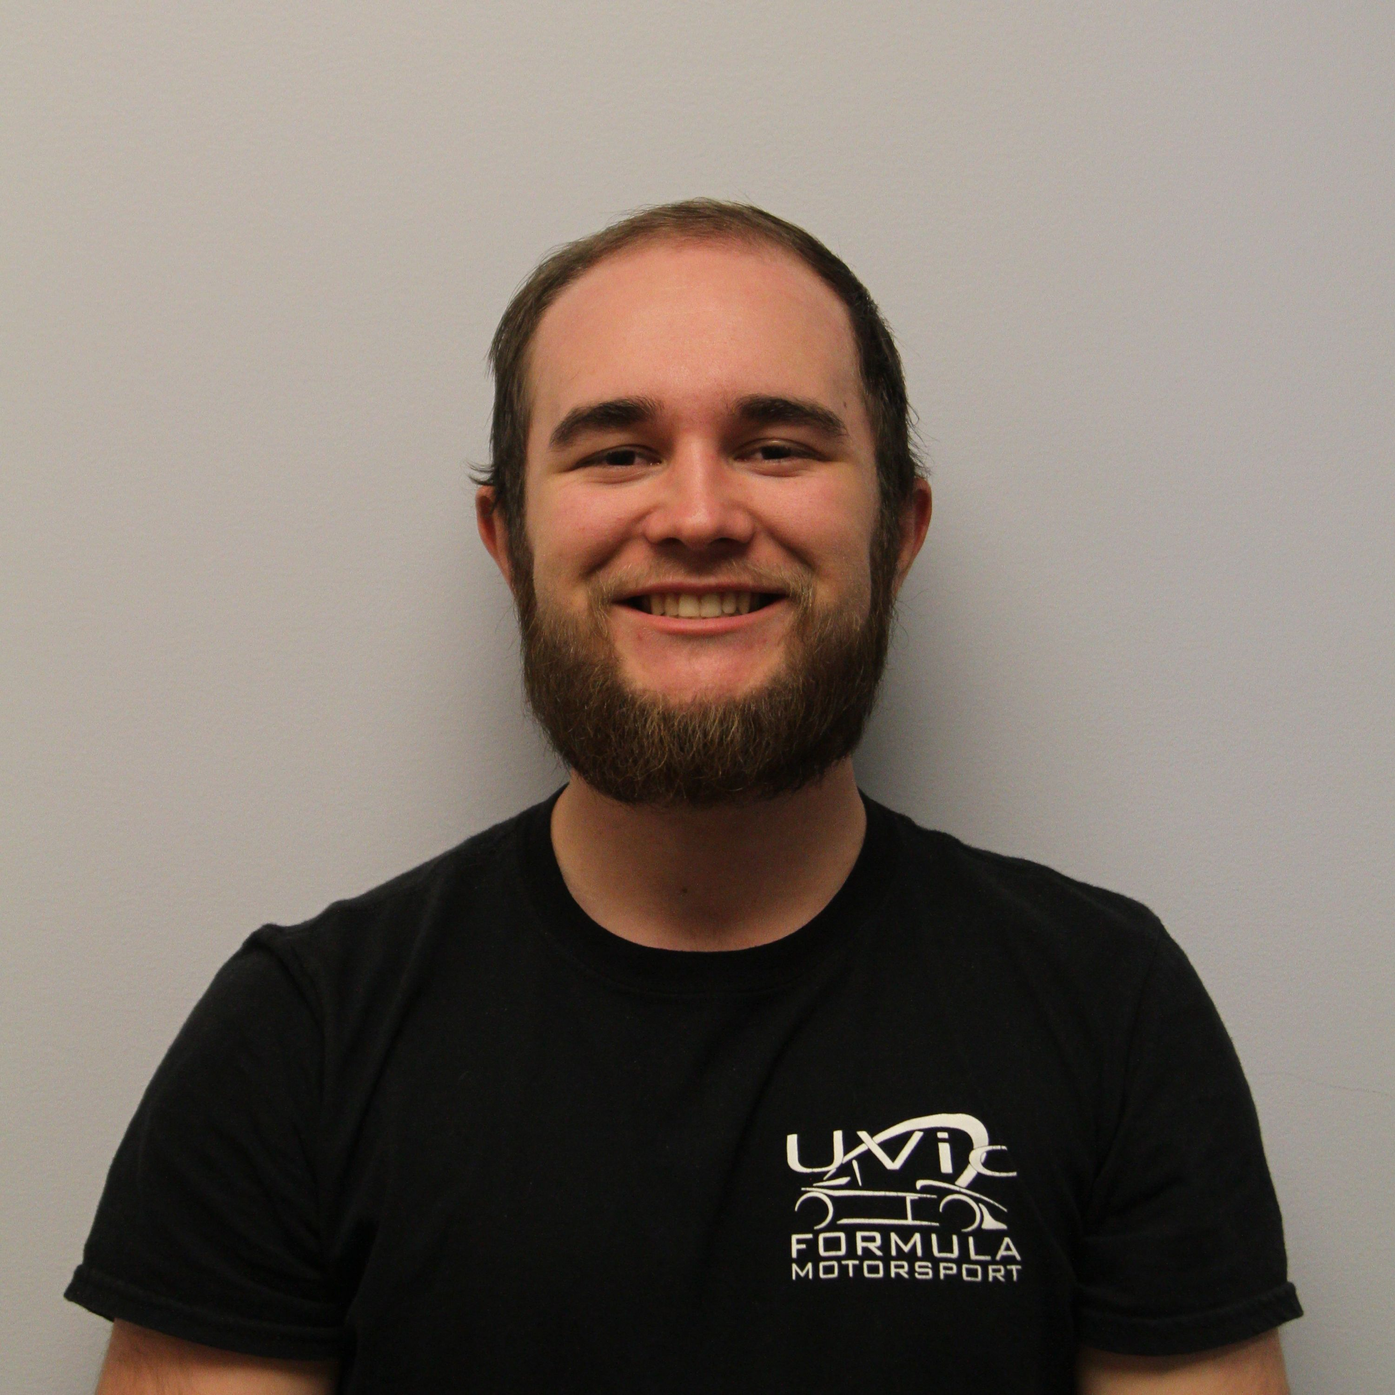
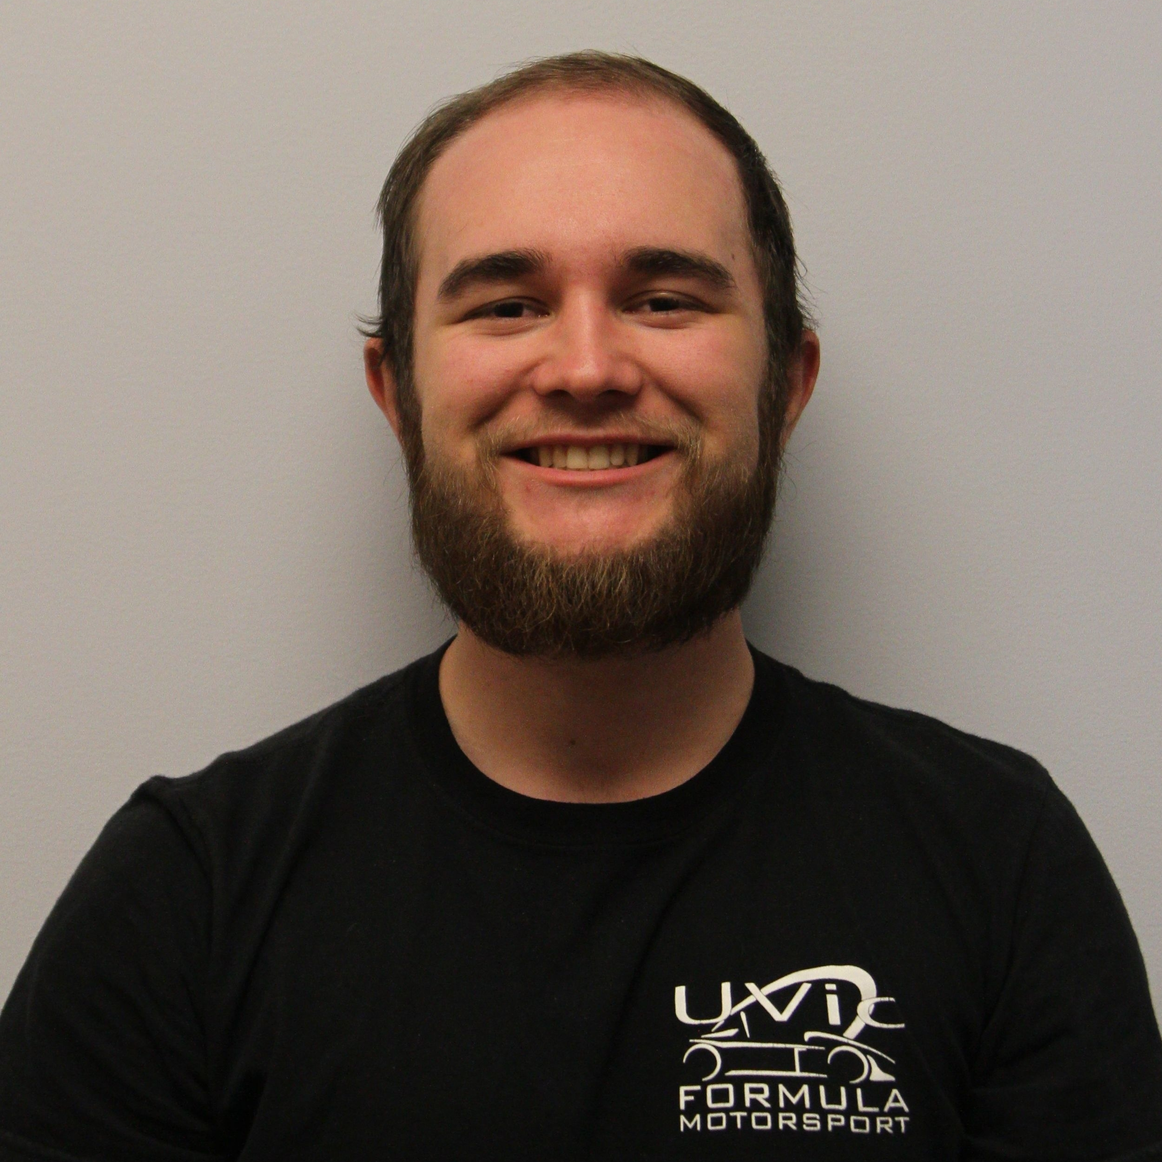
Update 20190729
Attempting to fix team leads images.

Changed region(s): [[0.0, 0.0312, 1.0, 1.0]]

diff --git a/_site/team/index.html b/_site/team/index.html
@@ -13,4 +13,4 @@ Throughout the year, the team puts thousands of hours into the development of th
 members expand their knowledge far beyond what is achieved during a Bachelor's degree alone.  Team members
 gain valuable experience with practical applications of engineering theory, business and relations, hands-on design,
 and manufacturing.<br></p></div><!--  p--><!--    | The Formula Motorsport team is made up of leads for different design elements, along with many other students--><!--    | who operate--><!--    | outside the curriculum and outside the classroom, striving to acquire applicable lessons in--><!--    | engineering theory, business and relations, hands-on-design, and manufacturing.--><!--    br-->
-</div></div><br><div class="container marketing"><div class="row"><!-- First row--><div class="col-md-6 col-lg-4 teambox"><img src="/img/team-2020/noimg.jpg" alt="Blake Sigwin" width="280" height="280" class="img-circle teampic"><h2>Blake Sigwin</h2><h4><strong>Team Principal</strong></h4><hr style="margin-top:0;margin-bottom:0;"><p>Administration<br>Sponsorship Coordinator<br>Team Direction</p></div><div class="col-md-6 col-lg-4 teambox"><img src="/img/team-2020/Raimund.jpg" alt="Raimund Mullin" width="280" height="280" class="img-circle teampic"><h2>Raimund Mullin</h2><h4><strong>Project Manager</strong></h4><hr style="margin-top:0;margin-bottom:0;"><p>Project Management<br>Team Coordination<br>Budget Management</p></div><div class="col-md-6 col-lg-4 teambox"><img src="/img/team-2020/noimg.jpg" alt="Josiah Macleod" width="280" height="280" class="img-circle teampic"><h2>Josiah Macleod</h2><h4><strong>Chief Engineer</strong></h4><hr style="margin-top:0;margin-bottom:0;"><p>System Integration<br>Design Review Coordination<br>Standards Development<br></p><div class="container marketing"><div class="row"></div><!-- Second Row--></div></div><div class="col-md-6 col-lg-4 teambox"><img src="/img/team-2020/noimg.jpg" alt="Peter Touchinski" width="280" height="280" class="img-circle teampic"><h2>Peter Touchinski</h2><h4><strong>Drivetrain Lead</strong></h4><hr style="margin-top:0;margin-bottom:0;"><p>Engine Parts Design<br>Engine Tuning<br>Launch and Traction Control Calibration</p></div><div class="col-md-6 col-lg-4 teambox"><img src="/img/team-2020/Mike.jpg" alt="Mike Mckee" width="280" height="280" class="img-circle teampic"><h2>Mike Mckee</h2><h4><strong>Drivetrain Lead</strong></h4><hr style="margin-top:0;margin-bottom:0;"><p>Transmission Design<br>Shifting System<br>Differential and Axel Design</p></div><div class="col-md-6 col-lg-4 teambox"><img src="/img/team-2020/Nigel.jpg" alt="Nigel Swab" width="280" height="280" class="img-circle teampic"><h2>Nigel Swab</h2><h4><strong>Vehicle Dynamics Lead</strong></h4><hr style="margin-top:0;margin-bottom:0;"><p>Vehicle Dynamics Simulation<br>Tire Modelling<br>Data Analysis<br></p><div class="container marketing"><div class="row"></div><!-- Third--></div></div><div class="col-md-6 col-lg-4 teambox"><img src="/img/team-2020/Matthew.jpg" alt="Matthew Peters" width="280" height="280" class="img-circle teampic"><h2>Matthew Peters</h2><h4><strong>Electrical Lead</strong></h4><hr style="margin-top:0;margin-bottom:0;"><p>Wiring Loom Manufacturing<br>PCB Design<br>Sensor Selection</p></div><div class="col-md-6 col-lg-4 teambox"><img src="/img/team-2020/noimg.jpg" alt="Alec MacMillan" width="280" height="280" class="img-circle teampic"><h2>Alec MacMillan</h2><h4><strong>Suspension and Brakes Lead</strong></h4><hr style="margin-top:0;margin-bottom:0;"><p>Suspension Design<br>Brake Design<br>Suspension Manufacturing</p></div><div class="col-md-6 col-lg-4 teambox"><img src="/img/team-2020/noimg.jpg" alt="Lewis Janzen" width="280" height="280" class="img-circle teampic"><h2>Unfilled</h2><h4><strong>Frame Lead</strong></h4><hr style="margin-top:0;margin-bottom:0;"><p>Chassis Design<br>Fabrication<br>System Integration<br></p><div class="container marketing"><div class="row"></div><!-- Fourth      --></div></div><div class="col-md-6 col-lg-4 teambox"><img src="/img/team-2020/Axel.jpg" alt="Axel Endongo" width="280" height="280" class="img-circle teampic"><h2>Axel Endongo</h2><h4><strong>Aerodynamics Lead</strong></h4><hr style="margin-top:0;margin-bottom:0;"><p>Composites<br>Composites Manufacturing<br>Mold Design</p></div><div class="col-md-6 col-lg-4 teambox"><img src="/img/team-2020/David.jpg" alt="David Kania" width="280" height="280" class="img-circle teampic"><h2>David Kania</h2><h4><strong>Aerodynamics Lead</strong></h4><hr style="margin-top:0;margin-bottom:0;"><p>Vechicle Aerodynamics<br>Composites Manufacturing<br>Aesthetics</p></div><div class="col-md-6 col-lg-4 teambox"><img src="/img/team-2020/noimg.jpg" alt="Alec MacMillan" width="280" height="280" class="img-circle teampic"><h2>Duncan Wallace</h2><h4><strong>Ergonomics Lead</strong></h4><hr style="margin-top:0;margin-bottom:0;"><p>Driver Ergonomics<br>Steering Wheel Design<br>Pedal Box Design</p></div></div></div><hr><div class="container-fluid marketing"><div class="row"><div class="col-lg-4"><a href="http://www.crp-usa.net/" target="_blank"><img src="/img/sponsors/crpusa_med.jpg" alt="CRP 3D Printing" height="75" class="img-rounded pic-align"></a></div><div class="col-lg-4"><a href="http://engineersmachineshop.ca" target="_blank"><img src="/img/sponsors/Rainhouse_lg.png" alt="Prototype Equipment Design" width="350" height="75" class="img-rounded pic-align"></a></div><div class="col-lg-4"><a href="http://eaglemachine.ca/" target="_blank"><img src="/img/sponsors/eaglemach_lg.jpg" alt="Eagle Machine" height="75" class="img-rounded pic-align"></a></div></div></div></body><hr><!-- FOOTER--><div class="container-fluid"><footer style="padding:0px 30px"><div class="row"><div class="col-xs-6"><p style="align: left; margin-left: 0; margin-right: auto; font-size:20px;">© 2016 UVic Formula Motorsport. All Rights Reserved</p></div><div class="col-xs-6 social-icons"><a href="https://www.flickr.com/photos/uvicfsae/albums/" target="_blank"><img src="/img/icons/Flickr-color-lg.png"></a><a href="https://www.youtube.com/channel/UCZs6NRtl950DlijfmLDGZ0Q" target="_blank"><img src="/img/icons/Youtube-color.png"></a><a href="https://twitter.com/uvicfsae" target="_blank"><img src="/img/icons/Twitter-color-lg.png"></a><a href="https://www.facebook.com/UVicFSae/" target="_blank"><img src="/img/icons/Facebook-color-lg.png"></a></div></div></footer></div></html>
+</div></div><br><div class="container marketing"><div class="row"><!-- First row--><div class="col-md-6 col-lg-4 teambox"><img src="/img/team-2020/Blake.jpg" alt="Blake Sigwin" width="280" height="280" class="img-circle teampic"><h2>Blake Sigwin</h2><h4><strong>Team Principal</strong></h4><hr style="margin-top:0;margin-bottom:0;"><p>Administration<br>Sponsorship Coordinator<br>Team Direction</p></div><div class="col-md-6 col-lg-4 teambox"><img src="/img/team-2020/Raimund.jpg" alt="Raimund Mullin" width="280" height="280" class="img-circle teampic"><h2>Raimund Mullin</h2><h4><strong>Project Manager</strong></h4><hr style="margin-top:0;margin-bottom:0;"><p>Project Management<br>Team Coordination<br>Budget Management</p></div><div class="col-md-6 col-lg-4 teambox"><img src="/img/team-2020/noimg.jpg" alt="Josiah Macleod" width="280" height="280" class="img-circle teampic"><h2>Josiah Macleod</h2><h4><strong>Chief Engineer</strong></h4><hr style="margin-top:0;margin-bottom:0;"><p>System Integration<br>Design Review Coordination<br>Standards Development<br></p><div class="container marketing"><div class="row"></div><!-- Second Row--></div></div><div class="col-md-6 col-lg-4 teambox"><img src="/img/team-2020/noimg.jpg" alt="Peter Touchinski" width="280" height="280" class="img-circle teampic"><h2>Peter Touchinski</h2><h4><strong>Drivetrain Lead</strong></h4><hr style="margin-top:0;margin-bottom:0;"><p>Engine Parts Design<br>Engine Tuning<br>Launch and Traction Control Calibration</p></div><div class="col-md-6 col-lg-4 teambox"><img src="/img/team-2020/Mike.jpg" alt="Mike Mckee" width="280" height="280" class="img-circle teampic"><h2>Mike Mckee</h2><h4><strong>Drivetrain Lead</strong></h4><hr style="margin-top:0;margin-bottom:0;"><p>Transmission Design<br>Shifting System<br>Differential and Axel Design</p></div><div class="col-md-6 col-lg-4 teambox"><img src="/img/team-2020/Nigel.jpg" alt="Nigel Swab" width="280" height="280" class="img-circle teampic"><h2>Nigel Swab</h2><h4><strong>Vehicle Dynamics Lead</strong></h4><hr style="margin-top:0;margin-bottom:0;"><p>Vehicle Dynamics Simulation<br>Tire Modelling<br>Data Analysis<br></p><div class="container marketing"><div class="row"></div><!-- Third--></div></div><div class="col-md-6 col-lg-4 teambox"><img src="/img/team-2020/Matthew.jpg" alt="Matthew Peters" width="280" height="280" class="img-circle teampic"><h2>Matthew Peters</h2><h4><strong>Electrical Lead</strong></h4><hr style="margin-top:0;margin-bottom:0;"><p>Wiring Loom Manufacturing<br>PCB Design<br>Sensor Selection</p></div><div class="col-md-6 col-lg-4 teambox"><img src="/img/team-2020/Alec.jpg" alt="Alec MacMillan" width="280" height="280" class="img-circle teampic"><h2>Alec MacMillan</h2><h4><strong>Suspension and Brakes Lead</strong></h4><hr style="margin-top:0;margin-bottom:0;"><p>Suspension Design<br>Brake Design<br>Suspension Manufacturing</p></div><div class="col-md-6 col-lg-4 teambox"><img src="/img/team-2020/noimg.jpg" alt="Unfilled" width="280" height="280" class="img-circle teampic"><h2>Unfilled</h2><h4><strong>Frame Lead</strong></h4><hr style="margin-top:0;margin-bottom:0;"><p>Chassis Design<br>Fabrication<br>System Integration<br></p><div class="container marketing"><div class="row"></div><!-- Fourth--></div></div><div class="col-md-6 col-lg-4 teambox"><img src="/img/team-2020/Axel.jpg" alt="Axel Endongo" width="280" height="280" class="img-circle teampic"><h2>Axel Endongo</h2><h4><strong>Aerodynamics Lead</strong></h4><hr style="margin-top:0;margin-bottom:0;"><p>Composites<br>Composites Manufacturing<br>Mold Design</p></div><div class="col-md-6 col-lg-4 teambox"><img src="/img/team-2020/David.jpg" alt="David Kania" width="280" height="280" class="img-circle teampic"><h2>David Kania</h2><h4><strong>Aerodynamics Lead</strong></h4><hr style="margin-top:0;margin-bottom:0;"><p>Vechicle Aerodynamics<br>Composites Manufacturing<br>Aesthetics</p></div><div class="col-md-6 col-lg-4 teambox"><img src="/img/team-2020/noimg.jpg" alt="Duncan Wallace" width="280" height="280" class="img-circle teampic"><h2>Duncan Wallace</h2><h4><strong>Ergonomics Lead</strong></h4><hr style="margin-top:0;margin-bottom:0;"><p>Driver Ergonomics<br>Steering Wheel Design<br>Pedal Box Design</p></div></div></div><hr><div class="container-fluid marketing"><div class="row"><div class="col-lg-4"><a href="http://www.crp-usa.net/" target="_blank"><img src="/img/sponsors/crpusa_med.jpg" alt="CRP 3D Printing" height="75" class="img-rounded pic-align"></a></div><div class="col-lg-4"><a href="http://engineersmachineshop.ca" target="_blank"><img src="/img/sponsors/Rainhouse_lg.png" alt="Prototype Equipment Design" width="350" height="75" class="img-rounded pic-align"></a></div><div class="col-lg-4"><a href="http://eaglemachine.ca/" target="_blank"><img src="/img/sponsors/eaglemach_lg.jpg" alt="Eagle Machine" height="75" class="img-rounded pic-align"></a></div></div></div></body><hr><!-- FOOTER--><div class="container-fluid"><footer style="padding:0px 30px"><div class="row"><div class="col-xs-6"><p style="align: left; margin-left: 0; margin-right: auto; font-size:20px;">© 2016 UVic Formula Motorsport. All Rights Reserved</p></div><div class="col-xs-6 social-icons"><a href="https://www.flickr.com/photos/uvicfsae/albums/" target="_blank"><img src="/img/icons/Flickr-color-lg.png"></a><a href="https://www.youtube.com/channel/UCZs6NRtl950DlijfmLDGZ0Q" target="_blank"><img src="/img/icons/Youtube-color.png"></a><a href="https://twitter.com/uvicfsae" target="_blank"><img src="/img/icons/Twitter-color-lg.png"></a><a href="https://www.facebook.com/UVicFSae/" target="_blank"><img src="/img/icons/Facebook-color-lg.png"></a></div></div></footer></div></html>

diff --git a/_site/index.html b/_site/index.html
@@ -6,4 +6,4 @@
   js.src = "//connect.facebook.net/en_US/sdk.js#xfbml=1&version=v2.4";
   fjs.parentNode.insertBefore(js, fjs);
 }(document, 'script', 'facebook-jssdk'));
-</script></div><header></header><div class="nav-wrapper"><nav class="navbar navbar-default navbar-fixed-top"><div class="container-fluid"><div class="navbar-header"><button type="button" data-toggle="collapse" data-target="#myNavbar" class="navbar-toggle"><span class="icon-bar"></span><span class="icon-bar"></span><span class="icon-bar"></span></button><a href="/" style="margin-bottom:0px;"><img src="/img/logo.png" height="55px"></a></div><div><div id="myNavbar" class="collapse navbar-collapse"><ul class="nav navbar-nav navbar-right"><li class="front-page active"><a href="/">Home</a></li><li class="front-page"><a href="/team/">The Team</a></li><li class="front-page"><a href="/car2019/">The Car</a></li><li class="front-page"><a href="/competition/">The Competition</a></li><li class="front-page"><a href="/sponsors/">Sponsorship</a></li><li class="front-page"><a href="/contact/">Contact</a></li></ul></div></div></div></nav></div><!--Carousel--><!--====================================================================================================================--><div id="myCarousel" data-ride="carousel" data-interval="8000" style="margin-bottom:0px; margin-top:0px; height:50%; padding: 0px -15px;" class="carousel slide"><ol class="carousel-indicators"><li data-target="#myCarousel" data-slide-to="0" class="active"></li><li data-target="#myCarousel" data-slide-to="1"></li><li data-target="#myCarousel" data-slide-to="2"></li><li data-target="#myCarousel" data-slide-to="3"></li><li data-target="#myCarousel" data-slide-to="4"></li><li data-target="#myCarousel" data-slide-to="5"></li></ol><div role="listbox" class="carousel-inner"><div class="item uvic-carousel active"><img src="/img/Front_Page_Photos/comp2019.jpg" alt="First slide" style="object-fit: cover; height: 800px;" class="first-slide"></div><div class="item uvic-carousel"><img src="/img/Front_Page_Photos/corner.jpg" alt="Second slide" style="object-fit:cover; height: 800px;" class="first-slide"></div><div class="item uvic-carousel"><img src="/img/Front_Page_Photos/diff.jpg" alt="Third slide" style="object-fit:cover; height: 800px;" class="first-slide"></div><div class="item uvic-carousel"><img src="/img/Front_Page_Photos/UV19back.jpg" alt="Forth slide" style="object-fit:cover; height: 800px;" class="first-slide"></div><div class="item uvic-carousel"><img src="img/Front_Page_Photos/build2019.jpg" alt="Fifth slide" style="object-fit:cover; height: 800px;" class="first-slide"></div><div class="item uvic-carousel"><img src="img/Front_Page_Photos/driver.jpg" alt="Sixth slide" style="object-fit:cover; height: 800px;" class="first-slide"></div></div><a href="#myCarousel" role="button" data-slide="prev" class="left carousel-control"><span aria-hidden="true" class="glyphicon glyphicon-chevron-left"></span><span class="sr-only">Previous</span></a><a href="#myCarousel" role="button" data-slide="next" class="right carousel-control"><span aria-hidden="true" class="glyphicon glyphicon-chevron-right"></span><span class="sr-only">Next</span></a></div><!--Index Text--><!--====================================================================================================================--><div class="container-fluid"><div class="row"><div class="col-xs-2"></div><div class="col-lg-4"><div class="row"><div class="col-lg-12"><a href="https://extrweb.uvic.ca/donation-forms/FSAE" target="_blank" class="darken"><img src="/img/contributenow.jpg" height="400" style="width: 100%; margin: 30px 0 0 0;" class="img-responsive"><h3 class="overtext">Contribute Now</h3></a></div></div><div class="row"><div class="col-lg-12"><a href="/competition/" class="darken"><img src="/img/Speedway_autocross/autoCross1.jpg" height="400" style="width: 100%; margin: 30px 0 0 0;" class="img-responsive"><h3 class="overtext">What We Do</h3></a></div></div><div class="row"><div class="col-lg-12"><a href="/team/" class="darken"><img src="/img/supportus.jpg" height="400" style="width: 100%; margin: 30px 0 0 0;" class="img-responsive"><h3 class="overtext">Our Team</h3></a></div></div></div><div class="col-lg-4"><!-- Facebook Feed--><div data-href="https://www.facebook.com/UVicFSae/" data-tabs="timeline" data-small-header="false" data-adapt-container-width="true" data-hide-cover="false" data-show-facepile="true" data-height="835" data-width="500" style="display:block; margin: 30px auto;" class="fb-page"><blockquote cite="https://www.facebook.com/UVicFSae/" class="fb-xfbml-parse-ignore"><a href="https://www.facebook.com/UVicFSae/">UVic Formula Motorsport</a></blockquote></div></div><div class="col-xs-2"></div></div></div><hr><div class="container-fluid marketing"><div class="row"><div class="col-lg-4"><a href="http://www.crp-usa.net/" target="_blank"><img src="/img/sponsors/crpusa_med.jpg" alt="CRP 3D Printing" height="75" class="img-rounded pic-align"></a></div><div class="col-lg-4"><a href="http://engineersmachineshop.ca" target="_blank"><img src="/img/sponsors/Rainhouse_lg.png" alt="Prototype Equipment Design" width="350" height="75" class="img-rounded pic-align"></a></div><div class="col-lg-4"><a href="http://eaglemachine.ca/" target="_blank"><img src="/img/sponsors/eaglemach_lg.jpg" alt="Eagle Machine" height="75" class="img-rounded pic-align"></a></div></div></div></body><hr><!-- FOOTER--><div class="container-fluid"><footer style="padding:0px 30px"><div class="row"><div class="col-xs-6"><p style="align: left; margin-left: 0; margin-right: auto; font-size:20px;">© 2016 UVic Formula Motorsport. All Rights Reserved</p></div><div class="col-xs-6 social-icons"><a href="https://www.flickr.com/photos/uvicfsae/albums/" target="_blank"><img src="/img/icons/Flickr-color-lg.png"></a><a href="https://www.youtube.com/channel/UCZs6NRtl950DlijfmLDGZ0Q" target="_blank"><img src="/img/icons/Youtube-color.png"></a><a href="https://twitter.com/uvicfsae" target="_blank"><img src="/img/icons/Twitter-color-lg.png"></a><a href="https://www.facebook.com/UVicFSae/" target="_blank"><img src="/img/icons/Facebook-color-lg.png"></a></div></div></footer></div></html>
+</script></div><header></header><div class="nav-wrapper"><nav class="navbar navbar-default navbar-fixed-top"><div class="container-fluid"><div class="navbar-header"><button type="button" data-toggle="collapse" data-target="#myNavbar" class="navbar-toggle"><span class="icon-bar"></span><span class="icon-bar"></span><span class="icon-bar"></span></button><a href="/" style="margin-bottom:0px;"><img src="/img/logo.png" height="55px"></a></div><div><div id="myNavbar" class="collapse navbar-collapse"><ul class="nav navbar-nav navbar-right"><li class="front-page active"><a href="/">Home</a></li><li class="front-page"><a href="/team/">The Team</a></li><li class="front-page"><a href="/car2019/">The Car</a></li><li class="front-page"><a href="/competition/">The Competition</a></li><li class="front-page"><a href="/sponsors/">Sponsorship</a></li><li class="front-page"><a href="/contact/">Contact</a></li></ul></div></div></div></nav></div><!--Carousel--><!--====================================================================================================================--><div id="myCarousel" data-ride="carousel" data-interval="8000" style="margin-bottom:0px; margin-top:0px; height:50%; padding: 0px -15px;" class="carousel slide"><ol class="carousel-indicators"><li data-target="#myCarousel" data-slide-to="0" class="active"></li><li data-target="#myCarousel" data-slide-to="1"></li><li data-target="#myCarousel" data-slide-to="2"></li><li data-target="#myCarousel" data-slide-to="3"></li><li data-target="#myCarousel" data-slide-to="4"></li></ol><div role="listbox" class="carousel-inner"><div class="item uvic-carousel active"><img src="/img/Front_Page_Photos/comp2019.jpg" alt="First slide" style="object-fit: cover; height: 800px;" class="first-slide"></div><div class="item uvic-carousel"><img src="/img/Front_Page_Photos/corner.jpg" alt="Second slide" style="object-fit:cover; height: 800px;" class="first-slide"></div><div class="item uvic-carousel"><img src="/img/Front_Page_Photos/diff.jpg" alt="Third slide" style="object-fit:cover; height: 800px;" class="first-slide"></div><div class="item uvic-carousel"><img src="/img/Front_Page_Photos/UV19back.jpg" alt="Forth slide" style="object-fit:cover; height: 800px;" class="first-slide"></div><div class="item uvic-carousel"><img src="img/Front_Page_Photos/driver.jpg" alt="Fifth slide" style="object-fit:cover; height: 800px;" class="first-slide"></div></div><a href="#myCarousel" role="button" data-slide="prev" class="left carousel-control"><span aria-hidden="true" class="glyphicon glyphicon-chevron-left"></span><span class="sr-only">Previous</span></a><a href="#myCarousel" role="button" data-slide="next" class="right carousel-control"><span aria-hidden="true" class="glyphicon glyphicon-chevron-right"></span><span class="sr-only">Next</span></a></div><!--Index Text--><!--====================================================================================================================--><div class="container-fluid"><div class="row"><div class="col-xs-2"></div><div class="col-lg-4"><div class="row"><div class="col-lg-12"><a href="https://extrweb.uvic.ca/donation-forms/FSAE" target="_blank" class="darken"><img src="/img/contributenow.jpg" height="400" style="width: 100%; margin: 30px 0 0 0;" class="img-responsive"><h3 class="overtext">Contribute Now</h3></a></div></div><div class="row"><div class="col-lg-12"><a href="/competition/" class="darken"><img src="/img/Speedway_autocross/autoCross1.jpg" height="400" style="width: 100%; margin: 30px 0 0 0;" class="img-responsive"><h3 class="overtext">What We Do</h3></a></div></div><div class="row"><div class="col-lg-12"><a href="/team/" class="darken"><img src="/img/supportus.jpg" height="400" style="width: 100%; margin: 30px 0 0 0;" class="img-responsive"><h3 class="overtext">Our Team</h3></a></div></div></div><div class="col-lg-4"><!-- Facebook Feed--><div data-href="https://www.facebook.com/UVicFSae/" data-tabs="timeline" data-small-header="false" data-adapt-container-width="true" data-hide-cover="false" data-show-facepile="true" data-height="835" data-width="500" style="display:block; margin: 30px auto;" class="fb-page"><blockquote cite="https://www.facebook.com/UVicFSae/" class="fb-xfbml-parse-ignore"><a href="https://www.facebook.com/UVicFSae/">UVic Formula Motorsport</a></blockquote></div></div><div class="col-xs-2"></div></div></div><hr><div class="container-fluid marketing"><div class="row"><div class="col-lg-4"><a href="http://www.crp-usa.net/" target="_blank"><img src="/img/sponsors/crpusa_med.jpg" alt="CRP 3D Printing" height="75" class="img-rounded pic-align"></a></div><div class="col-lg-4"><a href="http://engineersmachineshop.ca" target="_blank"><img src="/img/sponsors/Rainhouse_lg.png" alt="Prototype Equipment Design" width="350" height="75" class="img-rounded pic-align"></a></div><div class="col-lg-4"><a href="http://eaglemachine.ca/" target="_blank"><img src="/img/sponsors/eaglemach_lg.jpg" alt="Eagle Machine" height="75" class="img-rounded pic-align"></a></div></div></div></body><hr><!-- FOOTER--><div class="container-fluid"><footer style="padding:0px 30px"><div class="row"><div class="col-xs-6"><p style="align: left; margin-left: 0; margin-right: auto; font-size:20px;">© 2016 UVic Formula Motorsport. All Rights Reserved</p></div><div class="col-xs-6 social-icons"><a href="https://www.flickr.com/photos/uvicfsae/albums/" target="_blank"><img src="/img/icons/Flickr-color-lg.png"></a><a href="https://www.youtube.com/channel/UCZs6NRtl950DlijfmLDGZ0Q" target="_blank"><img src="/img/icons/Youtube-color.png"></a><a href="https://twitter.com/uvicfsae" target="_blank"><img src="/img/icons/Twitter-color-lg.png"></a><a href="https://www.facebook.com/UVicFSae/" target="_blank"><img src="/img/icons/Facebook-color-lg.png"></a></div></div></footer></div></html>
